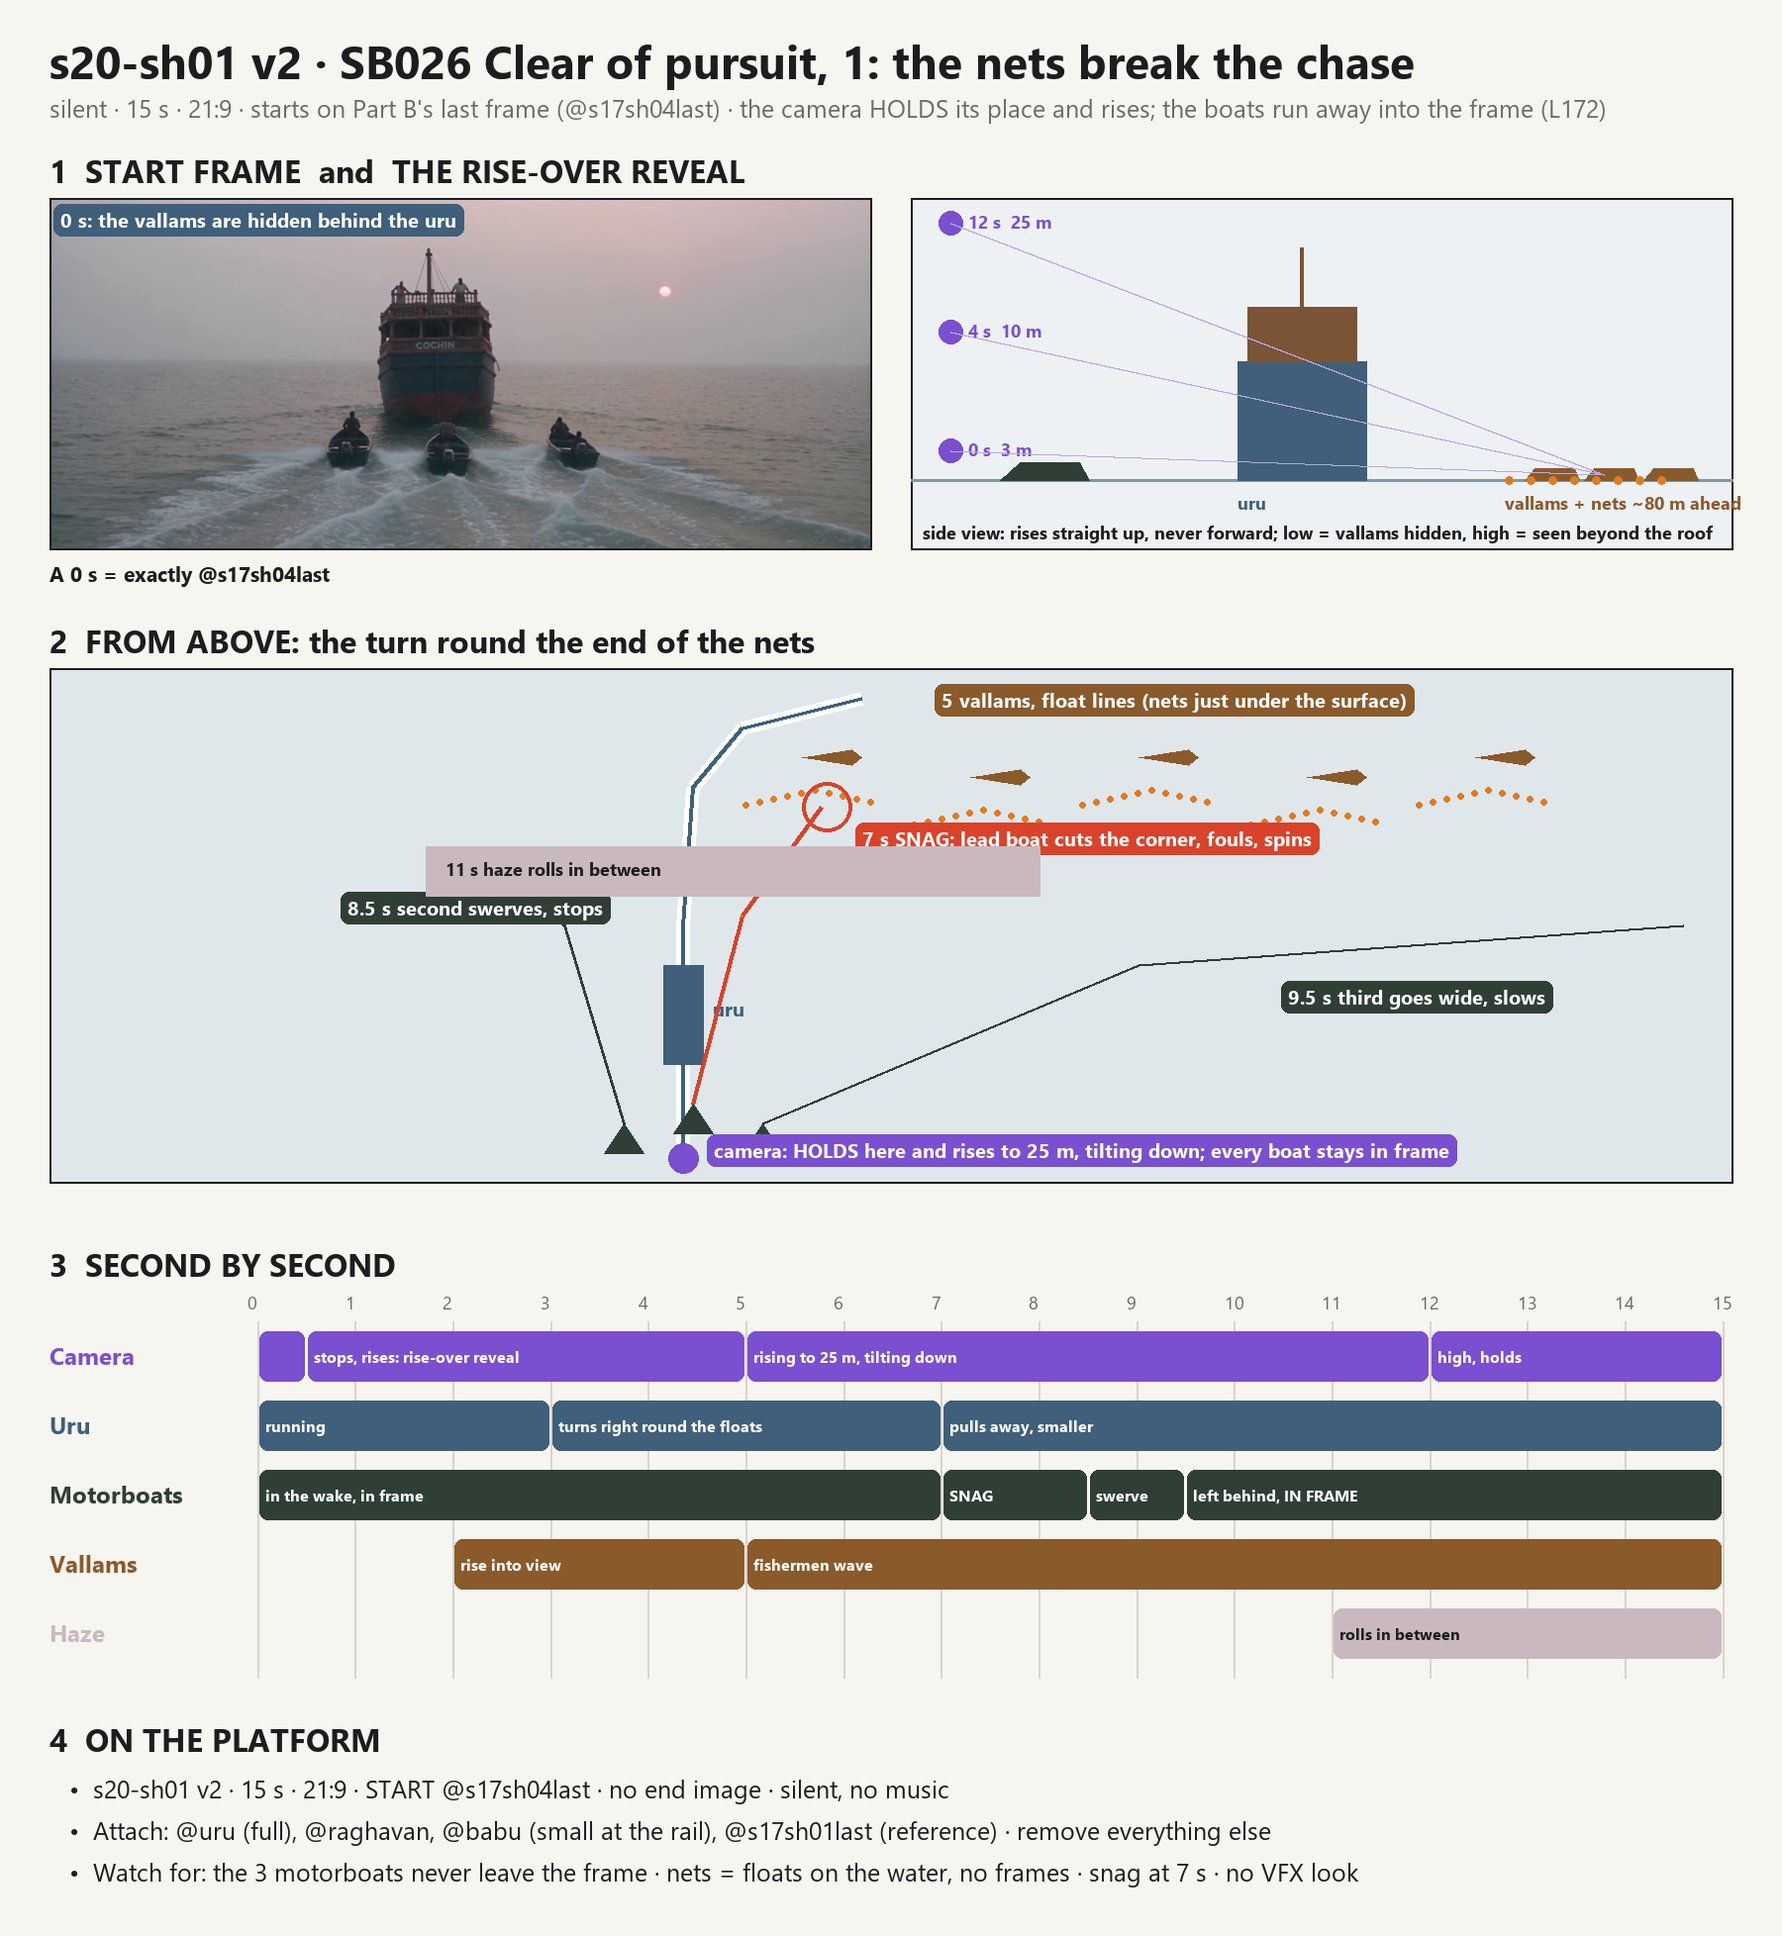
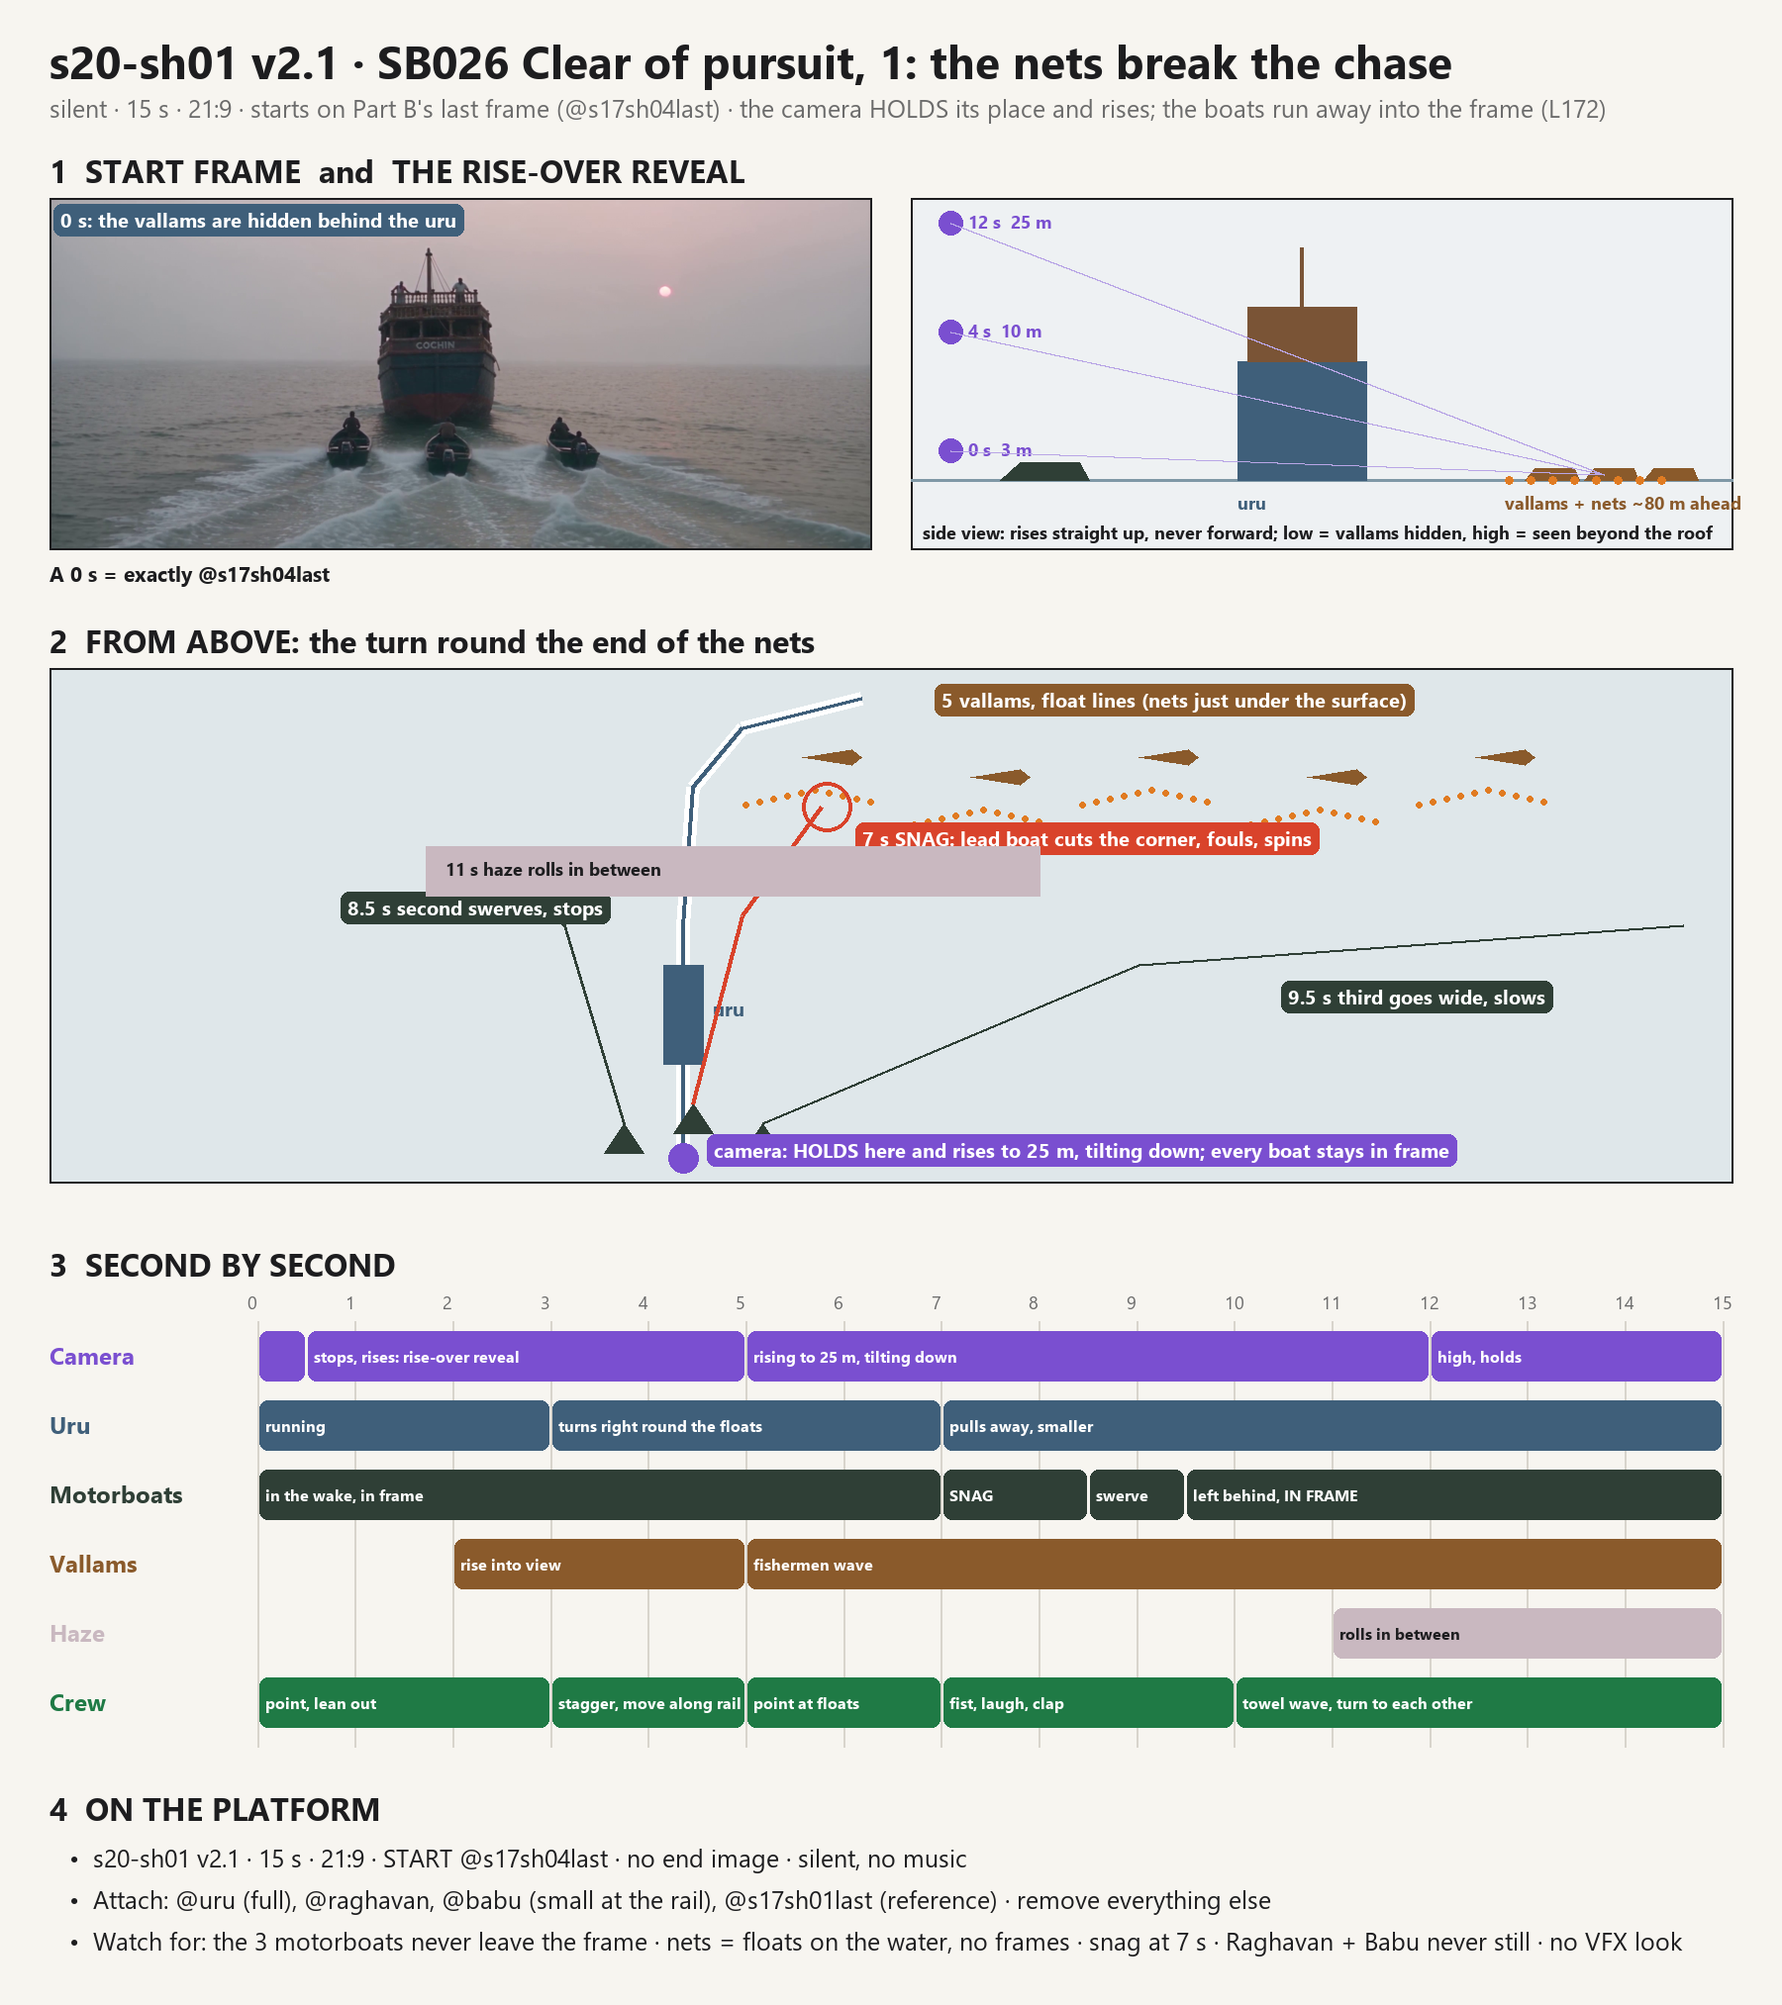
Ranjith: shot: s20-sh01 v2.1 (Raghavan and Babu keep moving the whole shot, L83)

diff --git a/tools/shotsheets/s20-sh01.py b/tools/shotsheets/s20-sh01.py
@@ -10,7 +10,7 @@ def tag(xy, text, col, f=None):
     f = f or F(20, True); x, y = xy; tw = d.textlength(text, font=f)
     d.rounded_rectangle([x - 6, y - 4, x + tw + 8, y + 28], 8, fill=col); d.text((x + 1, y - 2), text, font=f, fill="white")
 
-d.text((50, 30), "s20-sh01 v2 · SB026 Clear of pursuit, 1: the nets break the chase", font=F(46, True), fill=INK)
+d.text((50, 30), "s20-sh01 v2.1 · SB026 Clear of pursuit, 1: the nets break the chase", font=F(46, True), fill=INK)
 d.text((50, 92), "silent · 15 s · 21:9 · starts on Part B's last frame (@s17sh04last) · the camera HOLDS its place and rises; the boats run away into the frame (L172)", font=F(25), fill=GREY)
 
 # 1 start frame + side view of the rise-over reveal
@@ -73,7 +73,8 @@ rows = [("Camera", CAM, [(0, 0.5, ""), (0.5, 5, "stops, rises: rise-over reveal"
         ("Uru", URU, [(0, 3, "running"), (3, 7, "turns right round the floats"), (7, 15, "pulls away, smaller")]),
         ("Motorboats", MOT, [(0, 7, "in the wake, in frame"), (7, 8.5, "SNAG"), (8.5, 9.5, "swerve"), (9.5, 15, "left behind, IN FRAME")]),
         ("Vallams", VAL, [(2, 5, "rise into view"), (5, 15, "fishermen wave")]),
-        ("Haze", HAZE, [(11, 15, "rolls in between")])]
+        ("Haze", HAZE, [(11, 15, "rolls in between")]),
+        ("Crew", "#1f7a45", [(0, 3, "point, lean out"), (3, 5, "stagger, move along rail"), (5, 7, "point at floats"), (7, 10, "fist, laugh, clap"), (10, 15, "towel wave, turn to each other")])]
 for sec in range(0, 16):
     x = tx + tw_ * sec / S; d.line([x, ty, x, ty + 70 * len(rows) + 10], fill="#d8d4cc", width=2); d.text((x - 10, ty - 32), f"{sec}", font=F(18), fill=GREY)
 for i, (lab, col, segs) in enumerate(rows):
@@ -87,9 +88,9 @@ for i, (lab, col, segs) in enumerate(rows):
 # 4 platform
 y3 = ty + 70 * len(rows) + 50
 d.text((50, y3), "4  ON THE PLATFORM", font=F(32, True), fill=INK)
-lines = ["s20-sh01 v2 · 15 s · 21:9 · START @s17sh04last · no end image · silent, no music",
+lines = ["s20-sh01 v2.1 · 15 s · 21:9 · START @s17sh04last · no end image · silent, no music",
          "Attach: @uru (full), @raghavan, @babu (small at the rail), @s17sh01last (reference) · remove everything else",
-         "Watch for: the 3 motorboats never leave the frame · nets = floats on the water, no frames · snag at 7 s · no VFX look"]
+         "Watch for: the 3 motorboats never leave the frame · nets = floats on the water, no frames · snag at 7 s · Raghavan + Babu never still · no VFX look"]
 for i, t in enumerate(lines): d.text((70, y3 + 55 + i * 42), "•  " + t, font=F(25), fill=INK)
 im = im.crop((0, 0, W, y3 + 55 + len(lines) * 42 + 40))
 im.save("scenes/showreel/storyboards/s20-sh01-clear.png"); print(im.size)

diff --git a/scenes/showreel/s20-sh01.md b/scenes/showreel/s20-sh01.md
@@ -1,6 +1,7 @@
-# s20-sh01 · SB026 (Ref 20) — Clear of pursuit, 1: the nets break the chase (silent) · 15 s · v2
+# s20-sh01 · SB026 (Ref 20) — Clear of pursuit, 1: the nets break the chase (silent) · 15 s · v2.1
 Status: **ready (Ranjith, 2026-11-23)** · silent · starts on Part B's last frame `@s17sh04last`
 Created by: Ranjith
+v2.1 (Ranjith, 2026-11-23): "babu and raghavan should also move and not stand like statue" (L83): they point, stagger on the heel, move along the rail, punch the air, clap, wave a towel, from 0 s to the end.
 v2 (Ranjith, 2026-11-23): v1 lost the motorboats (the camera travelled with the uru and outran them; Ranjith: "this does not show it avoids the motor boats"). v2 holds the camera's place and rises (Ranjith chose "Use this camera move"), so the uru, all three motorboats and the nets stay in one frame and the pursuers are seen caught and left behind (L172); the nets are named as flat drift nets with float lines (v1 made Chinese lift nets). v1 kept in `retired/s20-sh01-v1.md`.
 Why this shot: the Part B take (s17-sh04 v3) ended on the uru seen from astern with the three motorboats close in its wake, but the escape itself (nets, snag, haze) did not happen in it. SB026's first beat is exactly that: "Working boats and poor visibility break the pursuer's line." This shot delivers it from Part B's last frame, before the SB026 dialogue.
 Camera (v2, Ranjith chose "Use this camera move"): from the start frame the camera stops travelling with the chase and holds its place over the sea, rising straight up from 3 m to about 25 m and tilting down (28mm, about 2 m/s); the boats run away from it into the frame, so the uru, all three motorboats and the nets stay in one frame (L172). Reveal without a cut: the vallams are dead ahead, hidden behind the uru; they rise into view beyond the deckhouse roof as the camera climbs, and the uru's right turn uncovers the whole float line.
@@ -45,17 +46,17 @@ One continuous shot, 15 seconds, real time, no cut, no slow motion, 21:9 cinemat
 
 CAMERA AND ACTION
 At the start the camera is 3 m above the water behind the motorboats, a 28mm lens. From 0.5s it stops travelling with the boats and holds its place over the sea, rising straight up and tilting down, smooth and steady, about 2 m per second, to about 25 m by 12.0s; it never moves forward.
-0.0s to 2.0s — From the start frame: the chase as it is; the motorboats bounce in the wake, the men in them crouched; Raghavan and Babu at the rail lean out, looking back. The camera begins to rise; the boats start to draw away from it.
-2.0s to 5.0s — Rising and tilting down: as the lens climbs above the height of the uru's top-deck balustrade, the line of vallams and their curved lines of white and orange floats come into view beyond the deckhouse roof, rising into view from behind it, the fishermen at their nets; the uru begins its turn to the right, its stern swinging left in the frame, and its hull moves aside to uncover the whole line of floats ahead. The three motorboats stay in the lower middle of the frame, close behind the uru.
-5.0s to 7.0s — The uru passes just left of the end of the nearest float line and swings right round it, about 1 m from the floats; the lead motorboat, in the middle of the frame, cuts the corner inside the turn, heading straight for the float line.
-7.0s to 10.0s — The snag at 7.0s; the second swerves and stops at 8.5s; the third goes wide at 9.5s; all three motorboats and the uru stay in frame; Raghavan punches the air once with his right fist, Babu grips the rail and laughs once without words; the fishermen wave their arms.
-10.0s to 15.0s — High and rising slowly, looking down and ahead: the uru pulls away to the right toward the open sea, smaller; the three motorboats stopped and slowed among the nets in the middle of the frame; a low bank of white-pink haze drifts across between them and the uru, softening the motorboats to dim shapes; the shot ends with the uru clear beyond the haze.
+0.0s to 2.0s — From the start frame: the chase as it is; the motorboats bounce in the wake, the men in them crouched; at the top-deck rail Raghavan leans far out over the balustrade, points back at the motorboats with his right arm and turns his head to Babu, while Babu shifts along the rail toward him, one hand on the rail, the other shading his eyes. The camera begins to rise; the boats start to draw away from it.
+2.0s to 5.0s — Rising and tilting down: as the lens climbs above the height of the uru's top-deck balustrade, the line of vallams and their curved lines of white and orange floats come into view beyond the deckhouse roof, rising into view from behind it, the fishermen at their nets; the uru begins its turn to the right, its stern swinging left in the frame, and its hull moves aside to uncover the whole line of floats ahead. The three motorboats stay in the lower middle of the frame, close behind the uru. As the uru heels into the turn, Raghavan and Babu grab the rail with both hands and stagger a step, then Raghavan hurries a few steps along the rail to the corner to keep the motorboats in sight, and Babu follows him, both leaning out.
+5.0s to 7.0s — The uru passes just left of the end of the nearest float line and swings right round it, about 1 m from the floats; the lead motorboat, in the middle of the frame, cuts the corner inside the turn, heading straight for the float line; at the rail Babu points down at the floats and Raghavan leans further out, watching the lead boat come on.
+7.0s to 10.0s — The snag at 7.0s; the second swerves and stops at 8.5s; the third goes wide at 9.5s; all three motorboats and the uru stay in frame; at the snag Raghavan punches the air once with his right fist and slaps the rail, Babu throws his head back and laughs once without words and claps Raghavan on the shoulder; the fishermen wave their arms.
+10.0s to 15.0s — High and rising slowly, looking down and ahead: the uru pulls away to the right toward the open sea, smaller; the three motorboats stopped and slowed among the nets in the middle of the frame; a low bank of white-pink haze drifts across between them and the uru, softening the motorboats to dim shapes; Raghavan and Babu stay moving at the rail, turning to each other, Raghavan wiping his face with the towel from his neck, Babu pulling the towel off his head and waving it once back at the motorboats; the shot ends with the uru clear beyond the haze.
 
 EYELINES
 Raghavan and Babu look back at the motorboats, then down at the caught one; the men in the motorboats look at the nets and at the uru; the fishermen look at the motorboats; nobody looks at the camera.
 
 ACTING & MICRO-EXPRESSION
-Seen small and from above, bodies carry it: the motorboat men crouched and leaning forward, then thrown forward and grabbing the sides at the snag; the second boat's driver hauling the tiller over; Raghavan's whole body springing forward with the fist; Babu's shoulders dropping with relief; the fishermen standing, arms waving, angry at the boat in their net. Restrained faces, big clear bodies.
+Seen small and from above, bodies carry it: the motorboat men crouched and leaning forward, then thrown forward and grabbing the sides at the snag; the second boat's driver hauling the tiller over; Raghavan and Babu never stand still: leaning out, pointing, staggering on the heel, moving along the rail, Raghavan's whole body springing forward with the fist, Babu's shoulders dropping with relief, the clap on the shoulder, the towels waved; the fishermen standing, arms waving, angry at the boat in their net. Restrained faces, big clear bodies.
 
 CAPTURE IMPERFECTIONS
 A slight sway as the camera rises in the sea wind; 1.5s a little spray from the lead motorboat flicks across the lower frame; 7.2s the white water of the snag catches the light; 12.0s a slight focus breath as the haze arrives.
@@ -80,7 +81,7 @@ CONSTRAINTS
 The shot starts exactly on the start frame. The camera never moves forward and never passes the motorboats; from 2.0s the uru, all three motorboats and the nets stay in frame together to the end. Exactly one uru, exactly three motorboats (two men each), exactly five vallams (plain canoes, no frames or poles), exactly two men at the top-deck rail (Raghavan and Babu). The nets are flat drift nets seen only as float lines on the water; no lift nets, no Chinese nets, no frames. The motorboats stay behind the uru; none comes alongside or passes it. The uru stays about three motorboat lengths long, never bigger, its propeller and rudder under water. Only COCHIN on the stern as writing; no flags, no numbers, no logos, no weapons, no gunfire, no Navy, no land. Nothing fades in or appears out of nothing; the vallams and floats come into view from behind the uru's deckhouse as the camera rises and from behind its hull as it turns. No one speaks. No English words, no subtitles. No cut, no zoom.
 
 POSITIVE LOCKS
-Starts on the start frame. The camera holds its place and rises straight up to about 25 m, tilting down; the boats run away from it. The vallams and float lines come into view beyond the deckhouse roof and are uncovered by the uru's turn by 5.0s. The lead motorboat fouls in the net at 7.0s and spins to a stop; the second swerves and stops at 8.5s; the third goes wide at 9.5s; the uru pulls away while all three motorboats stay in frame behind it; haze from 11.0s. Raghavan and Babu moving at the rail; everyone moving the whole time. Runs the full 15 seconds.
+Starts on the start frame. The camera holds its place and rises straight up to about 25 m, tilting down; the boats run away from it. The vallams and float lines come into view beyond the deckhouse roof and are uncovered by the uru's turn by 5.0s. The lead motorboat fouls in the net at 7.0s and spins to a stop; the second swerves and stops at 8.5s; the third goes wide at 9.5s; the uru pulls away while all three motorboats stay in frame behind it; haze from 11.0s. Raghavan and Babu move the whole time: pointing, staggering on the heel, moving along the rail, the fist, the clap, the towel; never standing like statues; everyone moving the whole time. Runs the full 15 seconds.
 
 INTENT: The moment the chase breaks, seen whole: the uru turns round the nets, the pursuers are caught and left behind in the same frame, and the haze closes over them.
 ```
